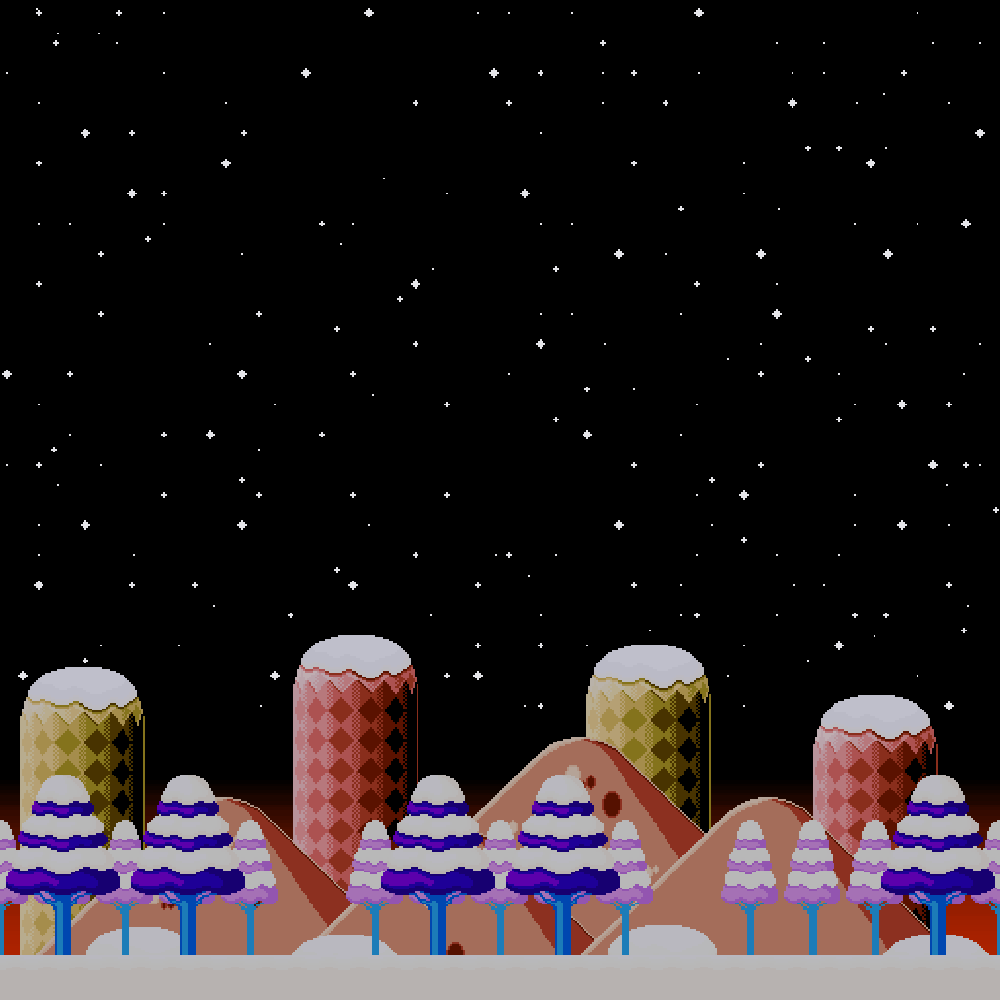
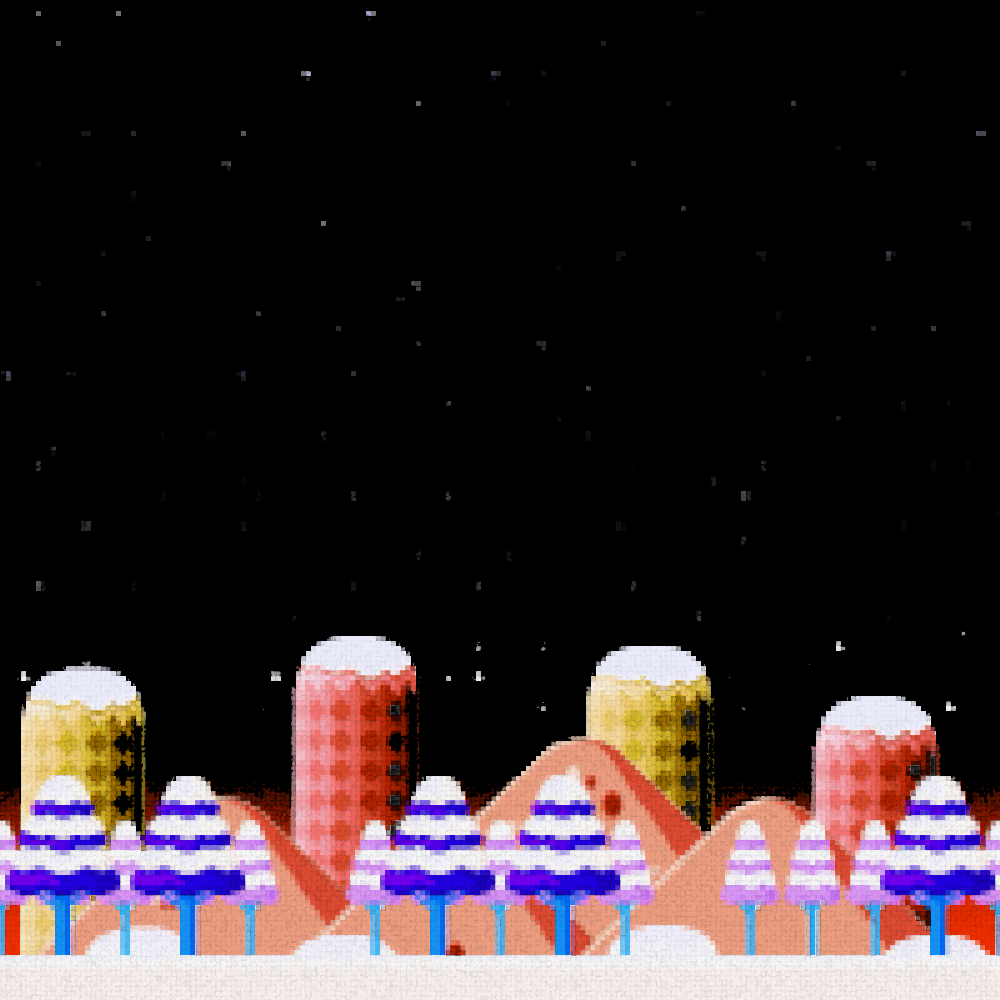
update font, remove not use image

Changed region(s): [[0.0, 0.62, 1.0, 1.0]]

diff --git a/public/index.html b/public/index.html
@@ -15,10 +15,12 @@ experience efficiently coding websites and applications using modern HTML, CSS, 
     <!-- test auto deploy -->
 
     <link rel="stylesheet" type="text/css" href="styles.css">
-    <link href="https://fonts.googleapis.com/css2?family=Orbitron&amp;display=swap" rel="stylesheet">
-    <link rel="stylesheet" href="https://cdnjs.cloudflare.com/ajax/libs/font-awesome/5.15.3/css/all.min.css"
+    <!-- <link href="https://fonts.googleapis.com/css2?family=Orbitron&amp;display=swap" rel="stylesheet"> -->
+    <!-- <link rel="stylesheet" href="https://cdnjs.cloudflare.com/ajax/libs/font-awesome/5.15.3/css/all.min.css"
         integrity="sha512-iBBXm8fW90+nuLcSKlbmrPcLa0OT92xO1BIsZ+ywDWZCvqsWgccV3gFoRBv0z+8dLJgyAHIhR35VZc2oM/gI1w=="
-        crossorigin="anonymous">
+        crossorigin="anonymous"> -->
+
+        <script src="https://kit.fontawesome.com/7d3f064e2b.js" crossorigin="anonymous"></script>
     <!-- <link rel="stylesheet" type="text/css" href="styles.css"> -->
 </head>
 
@@ -46,7 +48,7 @@ experience efficiently coding websites and applications using modern HTML, CSS, 
 
         <section class="section info-section flex-center--middle">
             <div class="navigation" onclick="onClickContact()">
-                <span>Contact me ❯ </span>
+                <span>Contact me</span> <i class="fas fa-caret-right"></i>
             </div>
             <div class="flex-center--middle hidden" id="gameContainer">
                 <canvas id="canvas" width="735.1666666666666px" height="500px"></canvas>
@@ -86,7 +88,7 @@ experience efficiently coding websites and applications using modern HTML, CSS, 
                     <pre class="simulate-tag">&lt;Bootstrap-4-grid-generator&gt;</pre>
                     <div class="work-properties">
                         <div class="preview-img">
-                            <img class="mr-default" style="max-width: 700px;" src="./assets/bootstrap4grid.gif">
+                            <img class="mr-default" loading="lazy" style="max-width: 700px;" src="./assets/bootstrap4grid.gif">
                         </div>
                         <div class="information-content">
                             <p>
@@ -110,7 +112,7 @@ experience efficiently coding websites and applications using modern HTML, CSS, 
                     <pre class="simulate-tag">&lt;Fruity&gt;</pre>
                     <div class="work-properties d-flex flex-row flex-wrap">
                         <div class="preview-img">
-                            <img class="mr-default" src="./assets/fruity.gif">
+                            <img loading="lazy" class="mr-default" src="./assets/fruity.gif">
                         </div>
                         <div class="information-content">
                             <p>
@@ -129,13 +131,13 @@ experience efficiently coding websites and applications using modern HTML, CSS, 
             <div class="contact-left">
                 <div class="contact-container">
                     <div class="mb-1 flex-center--middle">
-                        <img id="avatar" src="./assets/avatar.jpg">
+                        <img loading="lazy" id="avatar" src="./assets/avatar.jpg">
                     </div>
                 </div>
             </div>
             <div class="contact-right">
                 <div class="navigation" onclick="onClickWork()">
-                    <span>❮ Works</span>
+                    <i class="fas fa-caret-left"></i> <span>Works</span>
                 </div>
                 <div class="contact-container">
                     <div>

diff --git a/public/styles.css b/public/styles.css
@@ -18,7 +18,7 @@ body {
     font-size: 18px;
     padding: none;
     margin: unset;
-    font-family: "Orbitron", sans-serif;
+    font-family: Consolas, monospace;
     overflow: hidden;
     touch-action: manipulation;
 }
@@ -36,7 +36,7 @@ h1 {
 }
 
 section.section.main-section::before {
-    background-image: url("assets/background-body.png");
+    /* background-image: url("assets/background-body.png"); */
     position: absolute;
     background-position: right;
     background-repeat: no-repeat;
@@ -84,7 +84,7 @@ section.section#sectionLoading .letter {
     align-items: flex-start;
     flex-direction: column;
     font-weight: bold;
-    background-image: url(./assets/me.png);
+    background-image: url(./assets/me.jpg);
     background-repeat: no-repeat;
     background-size: contain;
     background-position: center right;
@@ -175,11 +175,14 @@ section.section#sectionLoading .letter {
     position: absolute;
     top: 1.2em;
     right: 4rem;
-    letter-spacing: 3px;
     box-sizing: border-box;
     padding-bottom: 4px;
     cursor: pointer;
     z-index: var(--zidx-largest);
+}
+
+.navigation i {
+    font-size: 1rem;
 }
 
 .navigation>span {
@@ -189,7 +192,6 @@ section.section#sectionLoading .letter {
 
 div#commonInfomation {
     font-family: Consolas, monospace;
-    letter-spacing: 3px;
     padding-right: 3rem;
     padding-left: 3rem;
     display: flex;
@@ -244,7 +246,6 @@ div#commonInfomation p {
 .contact-container a {
     color: white;
     text-decoration: none;
-    letter-spacing: 3px;
 }
 
 img#avatar {
@@ -563,6 +564,8 @@ button.control-btn:active {
 #canvas {
     height: calc((100vh * 8 / 12));
     width: calc((100vw * 11 / 12));
+    background-color: black;
+    border-radius: 2rem;
 }
 
 /* .info-line-container {
@@ -611,14 +614,16 @@ pre#infoText>span {
 }
 
 /* responsive */
-@media only screen and (max-width: 1000px) and (orientation: portrait) {
-    body p {
-        font-size: 25px;
-    }
+@media only screen and (max-width: 1000px) {
     button.control-btn {
         display: flex;
         justify-content: center;
         align-items: center;
+    }
+}
+@media only screen and (max-width: 1000px) and (orientation: portrait) {
+    body p {
+        font-size: 25px;
     }
 
     #scrollTop {
@@ -651,6 +656,10 @@ pre#infoText>span {
         transform: translate(-50%, 0);
         padding: 50px 0 0 0;
         text-align: center;
+    }
+
+    .navigation i {
+        font-size: 40px;
     }
 
     .info-vertical .preview-img img {

diff --git a/public/scripts/src/main.js b/public/scripts/src/main.js
@@ -33,7 +33,7 @@ function toggleContact(isOpen) {
         },
         width: (el, i) => {
             const a = [30, 70]
-            return isOpen ? ['100vw', a[i]+'vw'] : [a[i]+'vw', '100vw'];
+            return isOpen ? ['100vw', a[i] + 'vw'] : [a[i] + 'vw', '100vw'];
         },
         easing: 'easeInOutQuad',
         duration: '500ms',
@@ -181,12 +181,13 @@ function showWork() {
 
 
 function animateLoading() {
+    // document.getElementById('sectionLoading').setAttribute('style', 'opacity: 0');
     var textWrapper = document.querySelector('#sectionLoading>span');
     textWrapper.innerHTML = textWrapper.textContent.replace(/\S/g, "<span class=\"letter\">$&</span>");
     anime.timeline({ loop: true })
         .add({
             targets: '#sectionLoading .letter',
-            opacity: [0, 1], 
+            opacity: [0, 1],
             scale: [0, 1],
             translateZ: 0,
             easing: "easeOutExpo",
@@ -198,14 +199,14 @@ function animateLoading() {
             duration: 1000,
             easing: "easeOutExpo",
             delay: 1000
-        });
+        })
 }
 
 function init() {
-    anime({
-        targets: ['#trung'],
-        marginTop: [900, 0],
-    });
+    // anime({
+    //     targets: ['#trung'],
+    //     marginTop: [900, 0],
+    // });
 
     animateLoading();
 }

diff --git a/public/scripts/src/game.js b/public/scripts/src/game.js
@@ -39,7 +39,7 @@ let shouldBreak = false;
 // init sprite image
 const spriteImage = new Image();
 const spriteBackground = new Image();
-spriteBackground.src = "assets/background2.png";
+spriteBackground.src = "assets/background.png";
 const haui = new Image();
 haui.src = "assets/school.png";
 const fpt = new Image();
@@ -578,7 +578,7 @@ function drawBuilding() {
     }
 }
 //#endregion
-function drawText(ctx, text, x = 0, y = 0, font = "22px Orbitron") {
+function drawText(ctx, text, x = 0, y = 0, font = "30px Consolas, monospace") {
     if (!ctx || !text) {
         return;
     }
